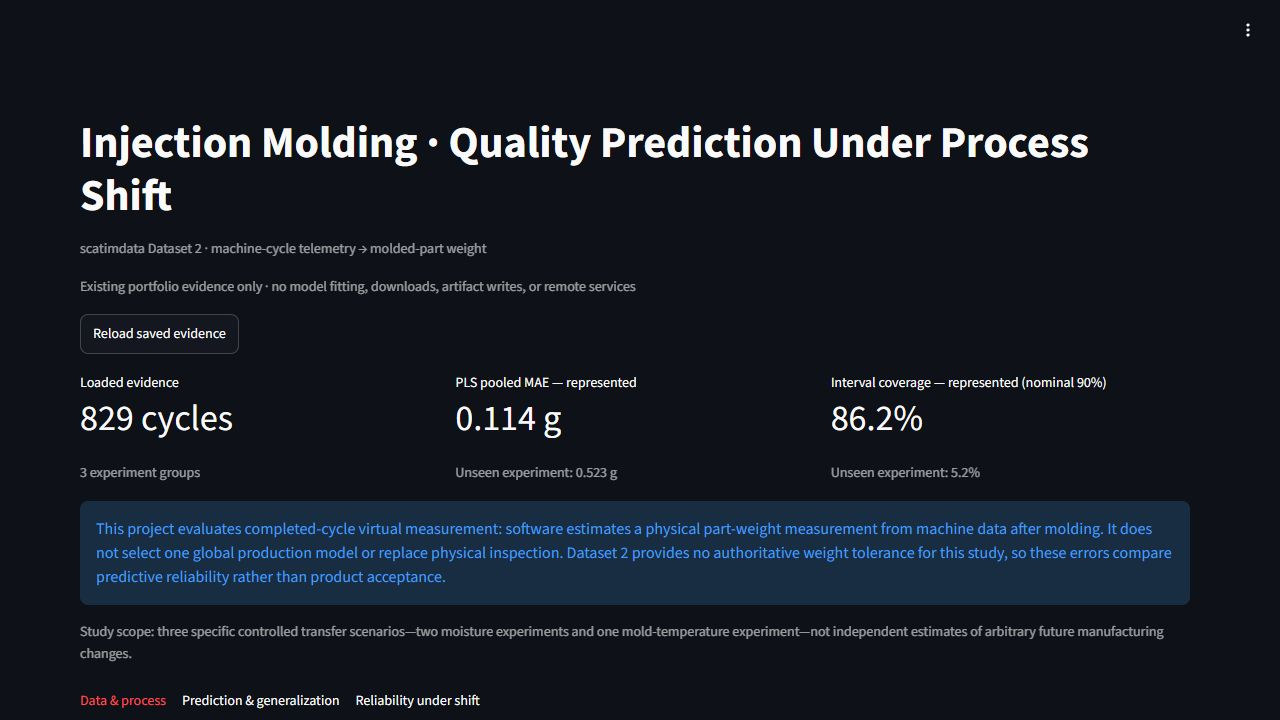
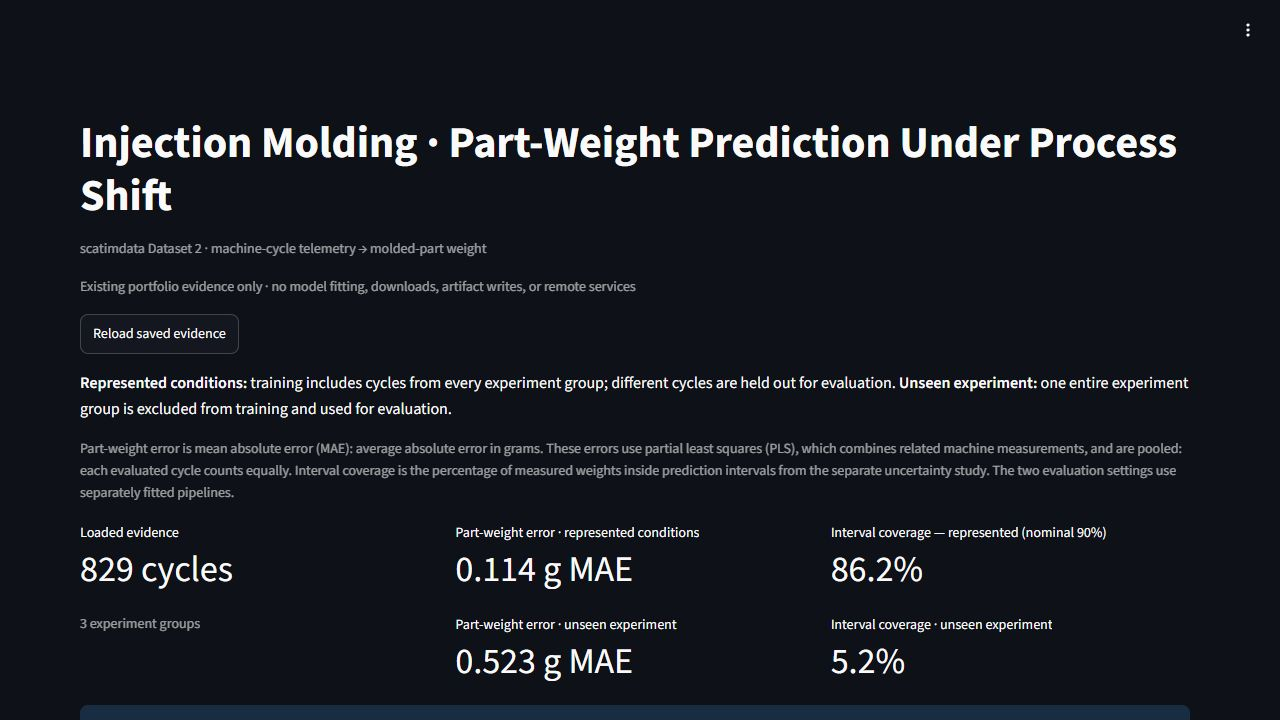
Explain study results and dashboard terminology for new readers

Changed region(s): [[0.0625, 0.5194, 0.9375, 1.0], [0.3438, 0.1528, 0.9375, 0.2444]]

diff --git a/src/mpi/dashboard.py b/src/mpi/dashboard.py
@@ -470,7 +470,8 @@ def _render_data_tab(data: DashboardData) -> None:
               the completed cycle.
             - **Switchover injection pressure:** the named machine measurement at the transition
               from filling to the next molding phase.
-            - **Melt cushion:** material remaining ahead of the screw after injection; the source
+            - **Melt cushion:** material remaining in front of the injection screw after filling;
+              the source
               does not establish whether its native value represents travel or volume.
             - **Dosing time:** the recorded duration of preparing material for the next cycle.
             - **Barrel heating zones:** temperature measurements along the machine barrel.
@@ -559,7 +560,7 @@ def _render_data_tab(data: DashboardData) -> None:
         "stronger when all groups are represented, motivating the whole-experiment holdout."
     )
 
-    st.subheader("Typical cycle and variation within this experiment")
+    st.subheader("Median pressure/flow profile and cycle-to-cycle variation")
     experiments = sorted(data.context["experiment_id"].unique().to_list())
     experiment = cast(int, st.selectbox("Experiment", experiments, key="cycle_experiment"))
     candidates = data.context.filter(pl.col("experiment_id") == experiment)["unit_id"].to_list()
@@ -723,7 +724,7 @@ def _render_prediction_tab(data: DashboardData) -> None:
     )
     st.caption(
         f"The like-weighted reviewer comparison is {id_mae:.3f} g versus {heldout_mae:.3f} g "
-        f"pooled MAE. The predefined primary result remains {equal_fold_mae:.3f} g equal-fold "
+        f"pooled MAE. The predefined result remains {equal_fold_mae:.3f} g equal-experiment "
         "MAE. The evaluation settings use separately fitted pipelines, so the gap is "
         "descriptive rather "
         "than a paired causal effect."
@@ -760,7 +761,8 @@ def _render_prediction_tab(data: DashboardData) -> None:
     )
     st.caption(
         "Scalars establish the baseline; trajectory summaries add engineered pressure/flow "
-        "features; PCA and supervised PLS add compressed signal components. PCA summarizes "
+        "features; principal component analysis (PCA) and supervised PLS add compressed signal "
+        "components. PCA summarizes "
         "signal variation; PLS compression "
         "learns components associated with training weights, before Ridge/LightGBM predicts. "
         "The chart reports the loaded results for each predefined representation and model "
@@ -1096,8 +1098,8 @@ def _render_reliability_tab(data: DashboardData) -> None:
         st.info(lead)
     selections = cast(list[dict[str, object]], data.uncertainty_run.get("selections", []))
     st.write(
-        "This uncertainty study selects between scalar PLS and LightGBM using development "
-        "data separately for each fold, then calibrates on reserved cycles. Empirical coverage "
+        "For each evaluation setup, this study selected PLS or LightGBM using only development "
+        "cycles, then used separate reserved cycles to set interval widths. Observed coverage "
         f"is how often the nominal {nominal:.0%} intervals actually contained measured weights. "
         "Calibration sets one fixed error margin per fitted model, so intervals do not "
         "automatically widen for an unfamiliar cycle."
@@ -1109,8 +1111,8 @@ def _render_reliability_tab(data: DashboardData) -> None:
                     PROTOCOL_LABELS.get(str(row["protocol"]), str(row["protocol"]))
                     for row in selections
                 ],
-                "Fold": [_fold_label(row["fold"]) for row in selections],
-                "Development-selected model": [
+                "Evaluation group": [_fold_label(row["fold"]) for row in selections],
+                "Model selected without evaluation cycles": [
                     _display_label(cast(dict[str, object], row["selected_candidate"])["family"])
                     for row in selections
                 ],
@@ -1191,9 +1193,12 @@ def _render_reliability_tab(data: DashboardData) -> None:
     threshold = cast(float, screen.get("primary_fold_minimum_mean_relative_reduction", 0.1))
     st.write(
         "The uncertainty study tested whether distance from familiar training cycles could "
-        f"identify predictions that were safer to accept. Retaining the closest {retained:.0%} "
+        "identify predictions that were safer to accept. Each process feature was rescaled "
+        "using training data so large numerical units would not dominate; the score was the "
+        "average distance to the five most similar training cycles. "
+        f"Retaining the closest {retained:.0%} "
         f"had to reduce development MAE by at least {threshold:.0%} in every whole-experiment "
-        "fold before a selective-measurement study could proceed."
+        "setup before testing whether some physical measurements could be skipped."
     )
     st.dataframe(
         distance_gate_summary(data.uncertainty_run),
@@ -1352,9 +1357,9 @@ def _render_reliability_tab(data: DashboardData) -> None:
     st.caption(
         f"Maximum shown: {maximum['fraction_outside_training_range']:.1%} for "
         f"{_feature_label(maximum['feature'])} in {maximum['population']}, across the displayed "
-        f"{PROTOCOL_LABELS[support_protocol]} features and populations. This is a marginal "
-        "range check, not full "
-        "distributional support, a cause, or a product limit."
+        f"{PROTOCOL_LABELS[support_protocol]} features and populations. This checks each "
+        "process feature separately; it does not establish whether the full combination of "
+        "values was represented in training, explain an error's cause, or define product limits."
     )
 
     st.subheader("What to do next")
@@ -1400,8 +1405,8 @@ def _render_reliability_tab(data: DashboardData) -> None:
 
 def render_dashboard(paths: DashboardPaths = DEFAULT_PATHS) -> None:
     """Render the bounded three-tab local dashboard."""
-    st.set_page_config(page_title="Injection Molding · Quality Prediction", layout="wide")
-    st.title("Injection Molding · Quality Prediction Under Process Shift")
+    st.set_page_config(page_title="Injection Molding · Part-Weight Prediction", layout="wide")
+    st.title("Injection Molding · Part-Weight Prediction Under Process Shift")
     st.caption("scatimdata Dataset 2 · machine-cycle telemetry → molded-part weight")
     st.caption(
         "Existing portfolio evidence only · no model fitting, downloads, artifact writes, or "
@@ -1417,6 +1422,18 @@ def render_dashboard(paths: DashboardPaths = DEFAULT_PATHS) -> None:
     experiment_rows, _ = experiment_summary(data)
     prediction = prediction_headline(data)
     uncertainty = uncertainty_headline(data)
+    st.markdown(
+        "**Represented conditions:** training includes cycles from every experiment group; "
+        "different cycles are held out for evaluation. **Unseen experiment:** one entire "
+        "experiment group is excluded from training and used for evaluation."
+    )
+    st.caption(
+        "Part-weight error is mean absolute error (MAE): average absolute error in grams. "
+        "These errors use partial least squares (PLS), which combines related machine "
+        "measurements, and are pooled: each evaluated cycle counts equally. Interval coverage "
+        "is the percentage of measured weights inside prediction intervals from the separate "
+        "uncertainty study. The two evaluation settings use separately fitted pipelines."
+    )
     data_kpi, prediction_kpi, reliability_kpi = st.columns(3)
     data_kpi.metric(
         "Loaded evidence",
@@ -1424,18 +1441,22 @@ def render_dashboard(paths: DashboardPaths = DEFAULT_PATHS) -> None:
     )
     data_kpi.caption(f"{experiment_rows.height} experiment groups")
     prediction_kpi.metric(
-        "PLS pooled MAE — represented",
-        f"{prediction['Represented conditions — pooled cycles']:.3f} g",
+        "Part-weight error · represented conditions",
+        f"{prediction['Represented conditions — pooled cycles']:.3f} g MAE",
     )
-    prediction_kpi.caption(
-        f"Unseen experiment: {prediction['Unseen experiment — pooled cycles']:.3f} g"
+    prediction_kpi.metric(
+        "Part-weight error · unseen experiment",
+        f"{prediction['Unseen experiment — pooled cycles']:.3f} g MAE",
     )
     reliability_kpi.metric(
         "Interval coverage — represented "
         f"(nominal {cast(float, data.uncertainty_run.get('nominal_coverage', 0.9)):.0%})",
         f"{uncertainty['secondary_id_empirical_coverage']:.1%}",
     )
-    reliability_kpi.caption(f"Unseen experiment: {uncertainty['primary_empirical_coverage']:.1%}")
+    reliability_kpi.metric(
+        "Interval coverage · unseen experiment",
+        f"{uncertainty['primary_empirical_coverage']:.1%}",
+    )
     st.info(
         "This project evaluates completed-cycle virtual measurement: software estimates a "
         "physical part-weight measurement from machine data after molding. It does not select "

diff --git a/tests/unit/test_dashboard.py b/tests/unit/test_dashboard.py
@@ -523,7 +523,7 @@ def test_synthetic_app_renders_three_tabs_and_selectors(tmp_path: Path) -> None:
     app = AppTest.from_file(app_script).run(timeout=10)
 
     assert not app.exception
-    assert app.title[0].value == "Injection Molding · Quality Prediction Under Process Shift"
+    assert app.title[0].value == "Injection Molding · Part-Weight Prediction Under Process Shift"
     assert [tab.label for tab in app.tabs] == [
         "Data & process",
         "Prediction & generalization",

diff --git a/README.md b/README.md
@@ -2,7 +2,8 @@
 
 A manufacturing data-science portfolio investigating a focused question:
 does high-resolution machine telemetry improve part-weight prediction beyond
-scalar measurements, and does it generalize under controlled process changes?
+cycle-level measurements, such as peak pressure and temperature, and does it generalize
+under controlled process changes?
 
 This is a personal résumé/portfolio project: rigorous analysis, reproducible local
 commands and an understandable demo, not a production-grade factory service.
@@ -12,17 +13,22 @@ commands and an understandable demo, not a production-grade factory service.
 **Problem:** Can ordinary injection-molding telemetry estimate completed-part weight,
 and does that accuracy hold when process conditions change?
 
-**Result:** With all experiment groups represented during training, scalar PLS reached
-**0.114 g pooled MAE**. When a complete experiment was withheld, the like-weighted pooled
-MAE was **0.523 g**. Nominal 90% interval coverage was **86.2%** in the
-represented-condition benchmark versus **5.2%** under whole-experiment holdout.
+**Result:** Partial least squares (PLS), a model that combines related machine measurements,
+achieved a **mean absolute error (MAE) of 0.114 g** when training included cycles from every
+experiment group and different cycles were held out for evaluation (*represented conditions*).
+With one entire experiment group excluded from training (*unseen experiment*), MAE was
+**0.523 g**. Both errors are pooled: every evaluated cycle counts equally.
+In the separate uncertainty study, intervals intended to contain 90% of measured weights
+contained **86.2%** in the represented-condition benchmark versus **5.2%** under
+whole-experiment holdout.
 Richer pressure/flow representations sometimes helped, but not consistently across the
 three held-out conditions.
 
-**Practical implication:** The error difference between the two evaluation settings was much
-larger than the observed gains from additional model or signal complexity. The simple
-uncertainty screen failed its development gate, so this project does not claim that physical
-measurement can safely be skipped.
+**Practical implication:** Accurate prediction within represented conditions did not establish
+reliable prediction for an unseen experiment. Adding detailed signals or more complex models
+did not consistently solve that transfer problem. The check for identifying more reliable
+predictions also failed its acceptance criterion, so physical measurement cannot be safely
+skipped on the strength of this study.
 
 ```mermaid
 flowchart LR
@@ -35,9 +41,17 @@ flowchart LR
 
 ![Dashboard summary of the loaded Dataset 2 evidence](docs/images/dashboard-overview.png)
 
-MAE is average absolute prediction error in grams; lower is better. Both headline errors
-above pool cycles, so their weighting is comparable. The predefined primary scientific
-metric was **0.503 g equal-experiment MAE**, reported separately in the technical results.
+### How to read the numbers
+
+| Term | Meaning |
+| --- | --- |
+| MAE | Average absolute weight-prediction error in grams; lower is better. |
+| Pooled | Every evaluated cycle contributes equally. |
+| Equal-experiment | Each held-out experiment contributes equally, regardless of its cycle count. |
+| Interval coverage | Fraction of measured weights inside their prediction intervals. |
+
+The predefined whole-experiment summary was **0.503 g equal-experiment MAE**;
+the **0.523 g pooled MAE** above instead weights experiments by their number of cycles.
 The represented-condition and held-out-condition values come from separately fitted
 pipelines, not a paired causal estimate of shift.
 
@@ -104,17 +118,14 @@ Because training and evaluation contain cycles from the same controlled experime
 the random-cycle benchmark primarily measures interpolation within represented conditions
 and may overstate performance for genuinely new production conditions. The gap between
 these two evaluations is the central result.
-The represented-group benchmark is called secondary in-distribution (ID) evaluation.
-The primary benchmark is retrospective grouped cross-validation: the initial audit
+The whole-experiment benchmark is retrospective grouped cross-validation: the initial audit
 examined all three experiments, so these are not untouched prospective tests.
 
-The like-weighted pooled comparison gives each cycle equal weight. The predefined primary headline was
-0.503 g and gives each held-out experiment equal weight. PLS predicts through a small set of components learned from correlated inputs
-and measured weights. For the separate uncertainty study, development data select PLS
-or LightGBM for each fold before reserved cycles calibrate the intervals. Thus the
-coverage row does not describe a PLS-only study. Coverage is the fraction of measured
-weights inside their intervals; a nominal 90% interval aims to contain nine in ten
-outcomes under its assumptions.
+The uncertainty study is not PLS-only: it selects either PLS or LightGBM (a model built
+from decision trees) using development data, then uses separate reserved cycles to set
+the interval widths. Evaluation cycles are excluded from both steps. Its 90% coverage
+target means nine in ten measured weights should lie inside their intervals under the
+method's assumptions—not that this reliability is guaranteed for new process conditions.
 
 The held-out experiments frequently extended beyond process-variable ranges seen during
 fitting, so the models faced extrapolation pressure. That shift co-occurs with the errors;
@@ -154,9 +165,11 @@ measurement.
 
 ### Why the selective-measurement gate stopped
 
-The uncertainty study tested one deliberately simple score: mean distance to the five nearest training
-cycles in standardized scalar-process space. Before final evaluation, retaining the
-closest 75% of development predictions had to reduce MAE by at least 10% in every fold.
+The uncertainty study tested one simple measure of unfamiliarity. Each process feature
+was rescaled using training data so large numerical units would not dominate. The score
+was the average distance to the five most similar training cycles. Before final evaluation,
+keeping only the closest 75% of development predictions had to reduce MAE by at least 10%
+in every held-out-experiment setup.
 
 | Future held-out experiment | Development MAE reduction | Decision |
 | --- | ---: | --- |
@@ -164,8 +177,9 @@ closest 75% of development predictions had to reduce MAE by at least 10% in ever
 | Experiment 20 | 4.31% | **Fail** |
 | Experiment 23 | 16.31% | Pass |
 
-Because one fold failed, the project did not create a risk-coverage curve or claim that
-physical measurement could safely be skipped. The pre-specified study stopped after this
+Because one setup failed, the project stopped before testing how prediction error changes
+as more questionable predictions are routed to physical measurement. It makes no claim
+that physical measurement could safely be skipped. The pre-specified study stopped after this
 failed screen; a separately designed follow-up could evaluate other warning methods.
 Observed input-range departures are evidence of unfamiliar inputs, but do not establish
 reliable error ranking or a working temporal drift detector.
@@ -316,6 +330,9 @@ uv run streamlit run src/mpi/dashboard.py --browser.gatherUsageStats false
 <summary>Per-step methodology, outputs and special commands</summary>
 
 The following notes link each step to its detailed methodology and limitations.
+Saved files call the represented-condition benchmark `secondary_id` and the
+whole-experiment benchmark `primary`; these are implementation labels for the two
+evaluation settings described above.
 
 ### Exploratory audit
 

diff --git a/docs/milestones/m10-dashboard.md b/docs/milestones/m10-dashboard.md
@@ -227,6 +227,11 @@ not a Parquet-integrity registry or automatic stale-file detector.
 
 ### Current integrated verification — 2026-09-20
 
+- The reader-language pass narrows the title to part weight, defines evaluation settings
+  and headline metrics before use, and explains individual-feature range checks and the
+  five-neighbor screen in plain English. The practical implication makes no claim that
+  one source of performance differences outweighs all model improvements. Refreshed
+  previews show the revised wording; computations and saved results remain unchanged.
 - The focused dashboard suite passed 14 cases. The added regression proves that the
   observed-versus-predicted plot uses one padded combined range on both axes, anchors the
   y-axis to the x-axis at a 1:1 scale and retains a 600-pixel review surface. Existing
